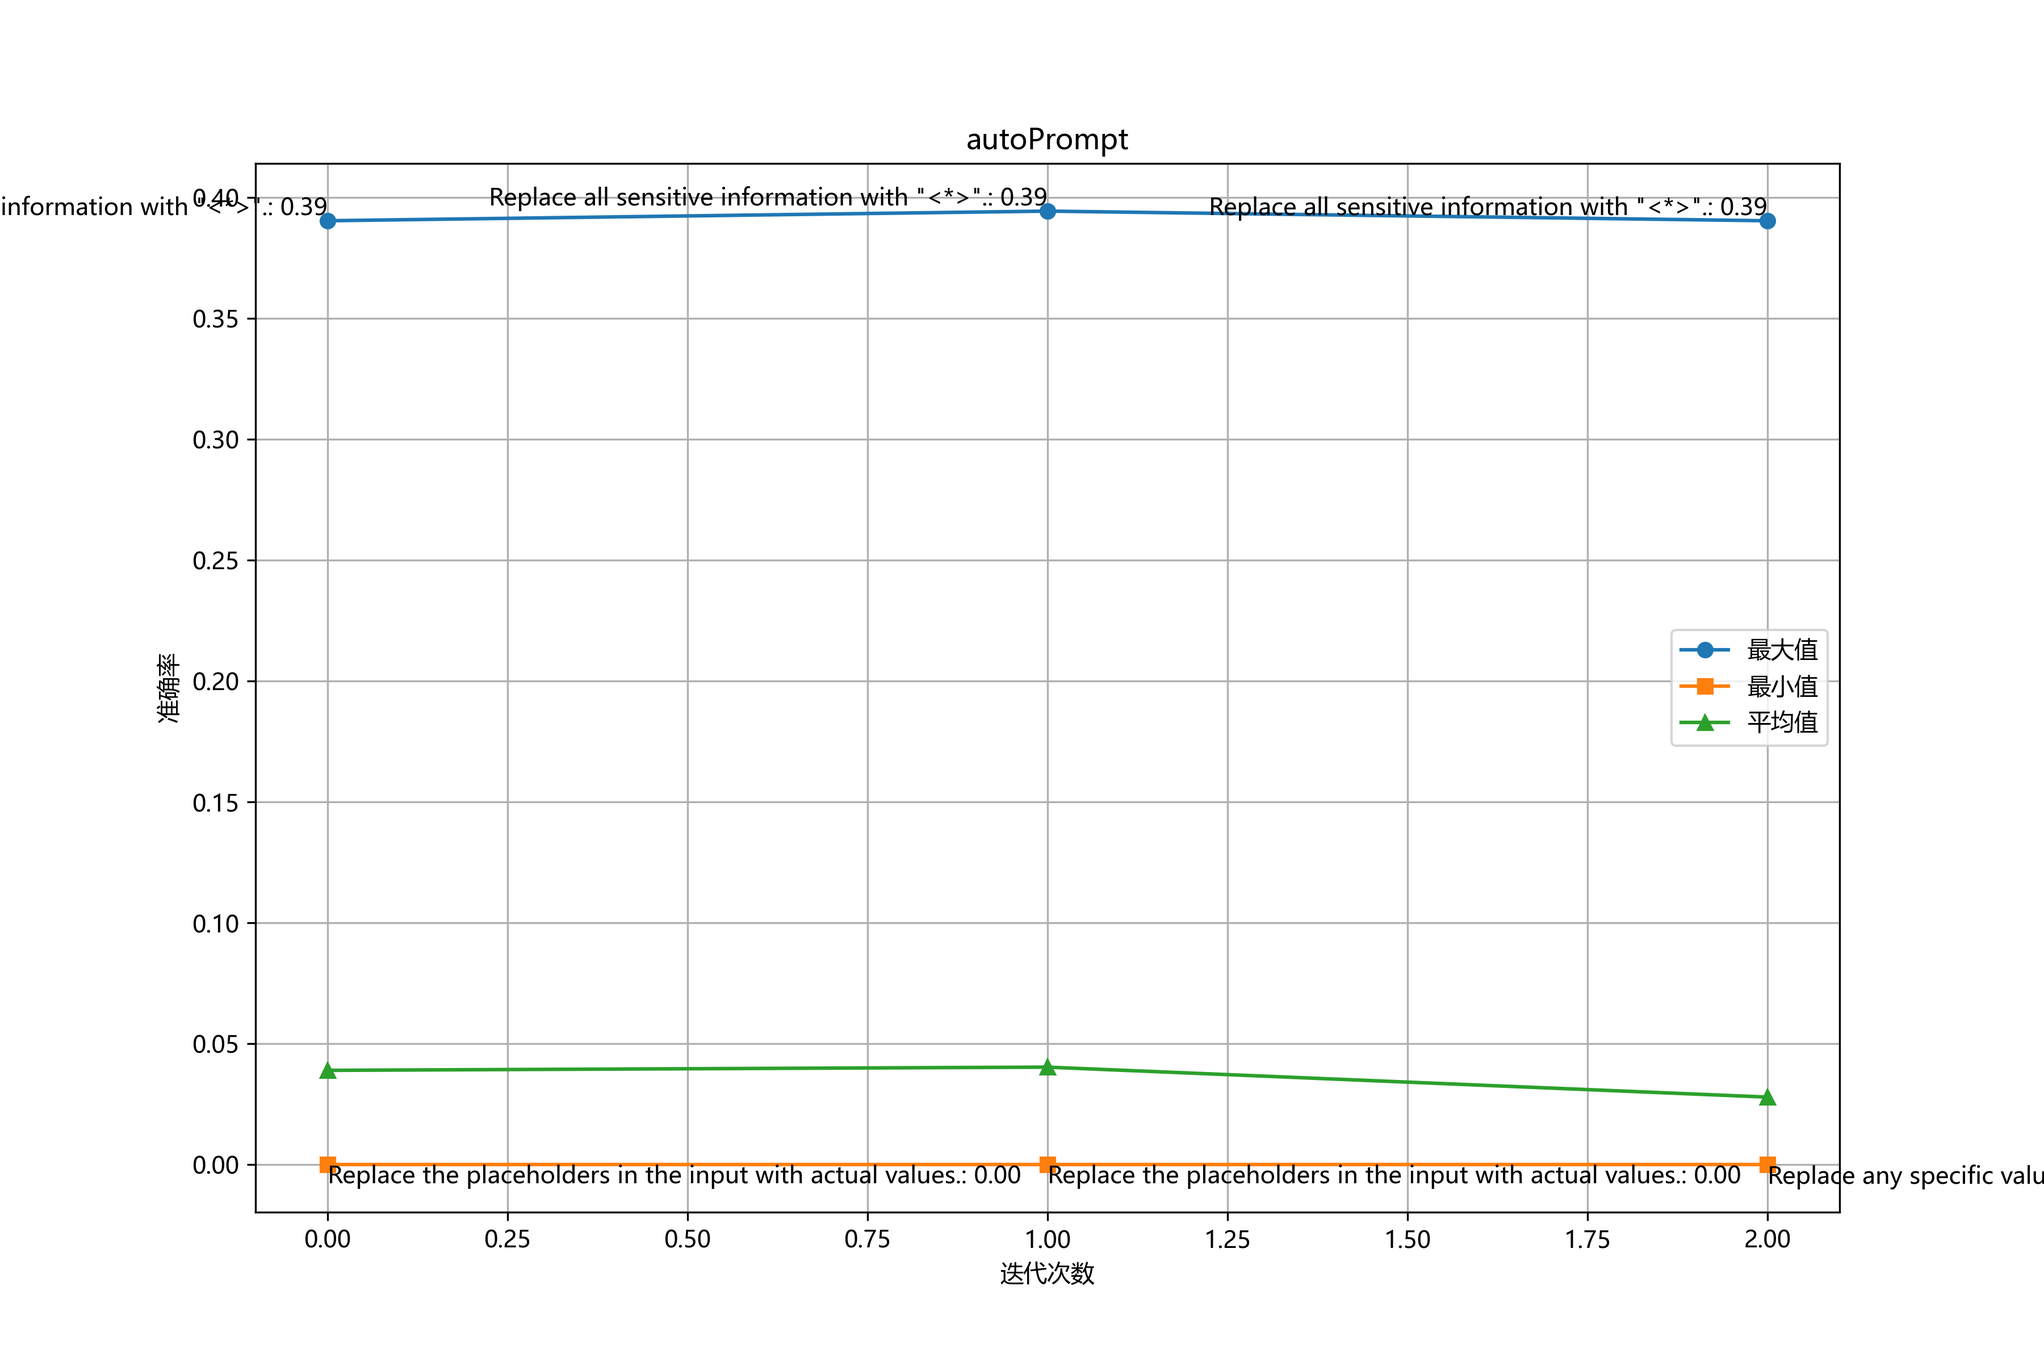
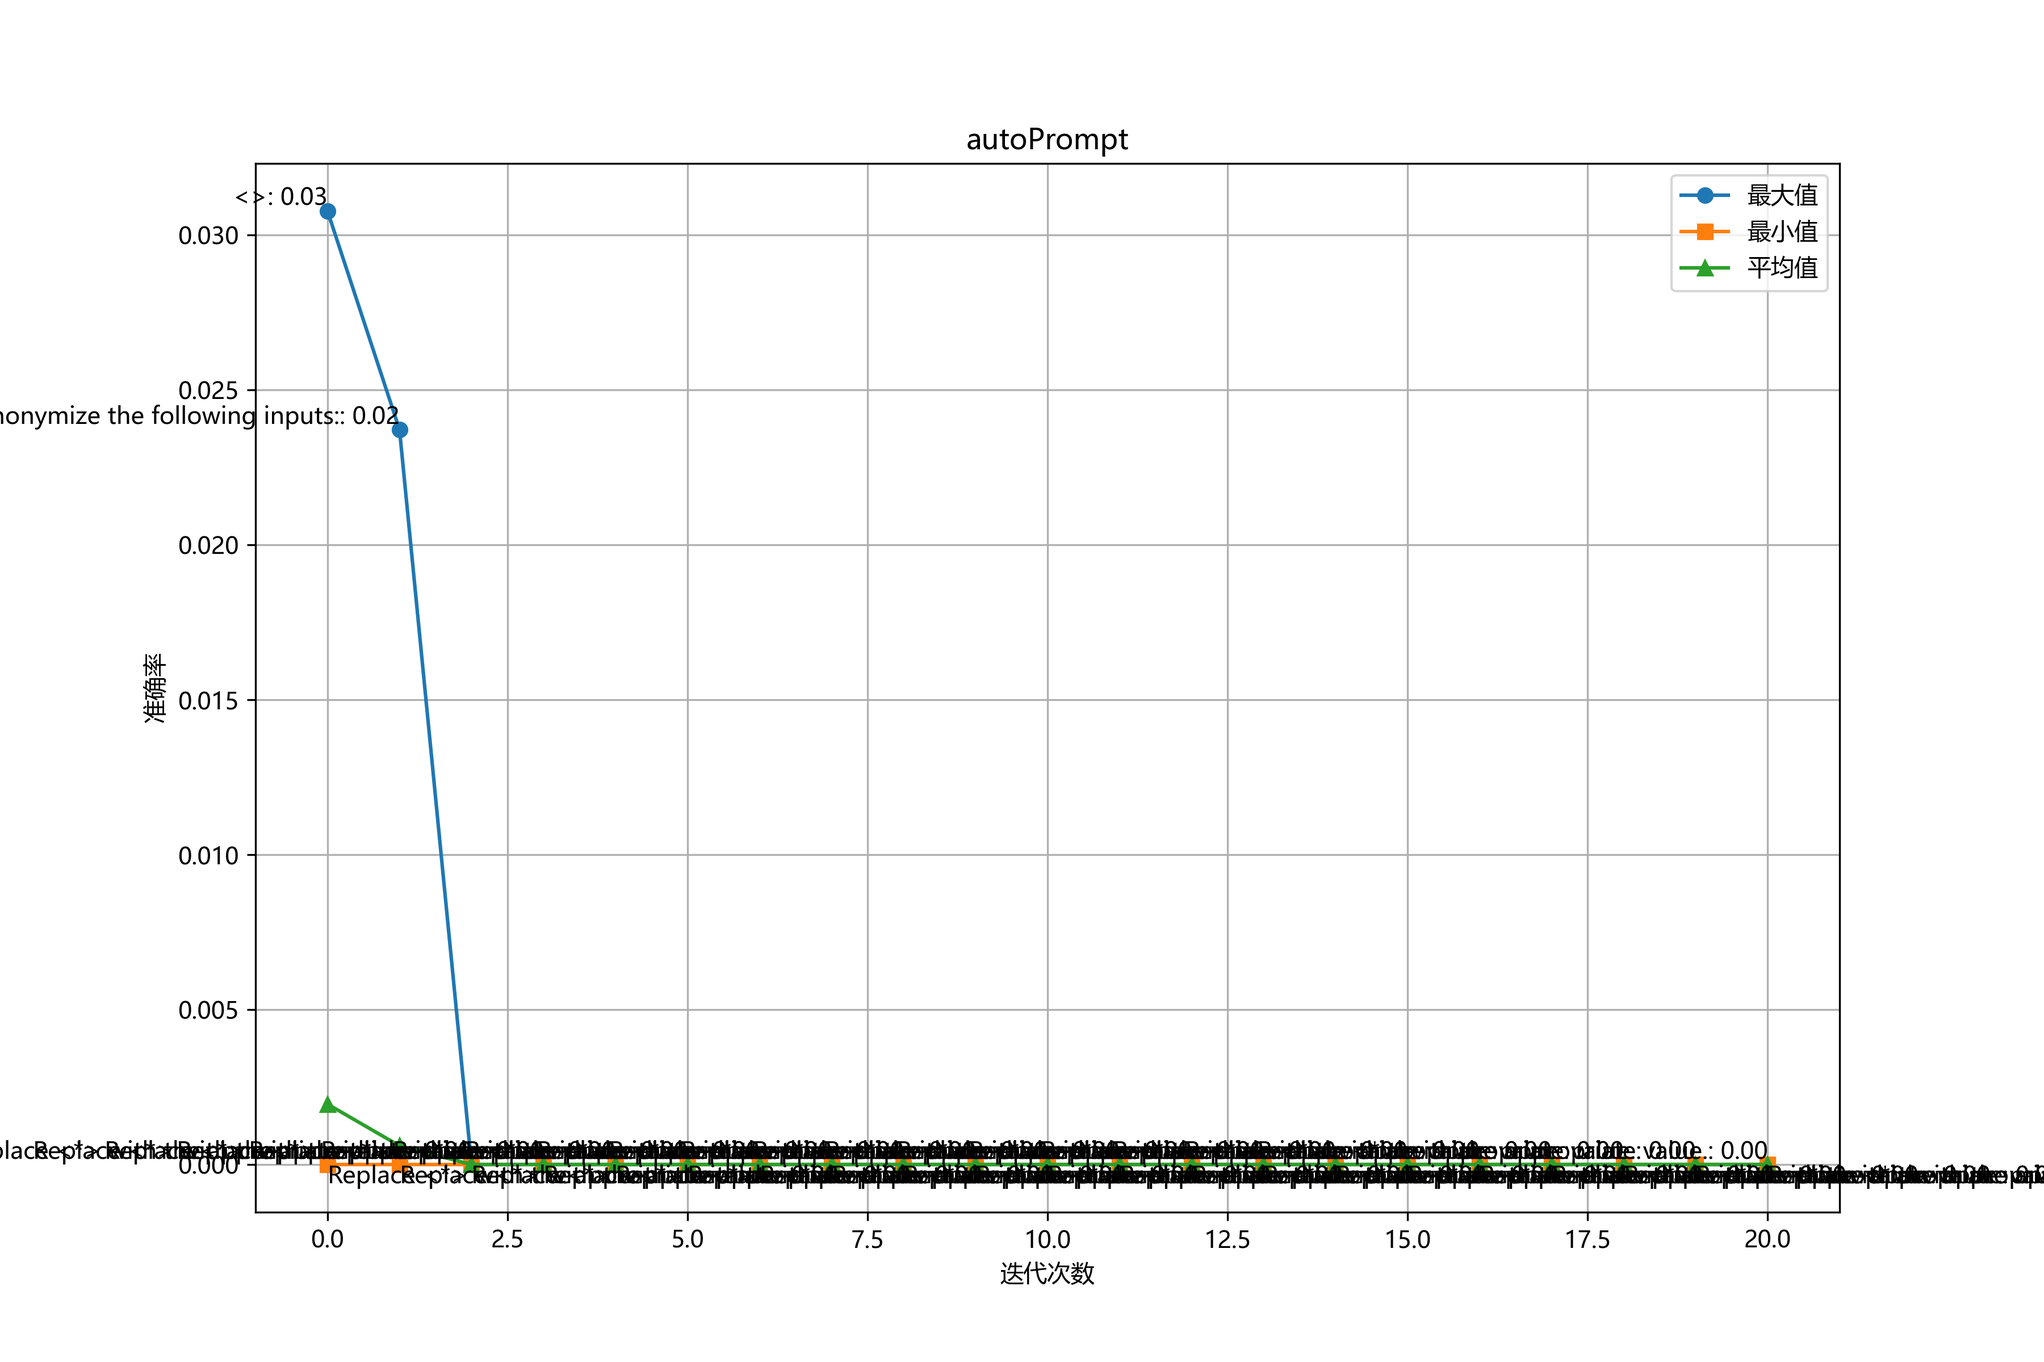
补丁

diff --git a/src/LogModule/AutoPrompt/Autoprompt.py b/src/LogModule/AutoPrompt/Autoprompt.py
@@ -3,10 +3,11 @@ import csv
 import random
 import time
 from src.LogModule.AutoPrompt.promptApi import infer_llm
-from src.LogModule.AutoPrompt.selectLog import select_log
+from src.LogModule.AutoPrompt.selectLog import get_train_log, get_test_log,get_random_log
 from src.LogModule.AutoPrompt.draw import draw_plot_with_keys
 from src.LogModule.AutoPrompt.wrongReason import batchProcess
 from src.LogModule.CasePrompt.promptSelect import prompt_select
+
 androidPath = r'C:\code\src\python\autoQAG\data\loghub-master\Android'
 
 ThreadNum = 10
@@ -28,8 +29,7 @@ def gerneration_prompt(input, output, number):
     prompt2 = "I instructed my friend to <>. " \
               "The friend read the instruction and wrote an output for every one of the inputs. " \
               f"Here are the input-outputpairs: \n{text}" \
-              f"Please output my instruction to the friend, only instruction, without any superfluous output" \
- \
+              f"Please output my instruction to the friend, only instruction, without any superfluous output"
         # 由gpt生成日志解析模版，输出模版放在提示词的中间
     prompt3 = "Professor Smith was given the following instruction:<>" \
               f"Here are the Professor's responses: \n{text} " \
@@ -39,27 +39,30 @@ def gerneration_prompt(input, output, number):
 
     for prompt in prompts:
         response = infer_llm(prompt, None, None)
+        print(response)
         gpt_prompts.append(response)
         print("gpt生成的提示词:", response)
 
 
 # 由gpt生成的提示词去抽取日志模版
 # 输入初始log内容，标准模版以及gpt生成的提示词
-def TaskExtractLog(log_content, prompt, log_template):
+def TaskExtractLog(log_content, prompt, log_template, isTrain):
     result_item = []
     prompt_temp = "You will be provided with a log message." \
                   f"log message:{log_content}," \
                   f"{prompt}" \
                   f"Output according to the above requirement, without any superfluous output" \
-                  f"Please follow the example below to extract the log template: \n"  \
-    #前5条
-    similiar_log = prompt_select(log_content, 5)
-    for item in similiar_log:
-        prompt_temp += f"Log message: `{item['Content']}`" \
-                       f"Log template: `{item['answer']}` \n"
+                  f"Please follow the example below to extract the log template: \n" \
+
+    # 前5条，测试集的话，这里的isTrain为False
+    if isTrain:
+        similiar_log = prompt_select(log_content, 5)
+        for item in similiar_log:
+            prompt_temp += f"Log message: `{item['Content']}`" \
+                           f"Log template: `{item['answer']}` \n"
 
     # print("目前的提示词："+prompt_temp)
-    response = infer_llm(prompt_temp, None, None, cached = True)
+    response = infer_llm(prompt_temp, None, None, cached=True)
     result_item.append(log_content)
     result_item.append(log_template)
     result_item.append(prompt)
@@ -67,7 +70,7 @@ def TaskExtractLog(log_content, prompt, log_template):
     return result_item
 
 
-def extract_log_template(log_contents, log_templates, prompts):
+def extract_log_template(log_contents, log_templates, prompts, isTrain=True):
     # 存储结果 初始log内容，该log的标准模版，gpt生成的提示词，gpt抽取的日志模版
     # result = []
     # for index, log_content in enumerate(log_contents):
@@ -90,7 +93,7 @@ def extract_log_template(log_contents, log_templates, prompts):
         futures = []
         for index, log_content in enumerate(log_contents):
             for prompt in prompts:
-                future = executor.submit(TaskExtractLog, log_content, prompt, log_templates[index])
+                future = executor.submit(TaskExtractLog, log_content, prompt, log_templates[index], isTrain)
                 futures.append(future)
         for future in concurrent.futures.as_completed(futures):
             try:
@@ -112,13 +115,13 @@ def judge_function(template: str, degen_template: str) -> bool:
         return False
 
 
-def prompt_accuracy_count(gpt_prompts, results, log_number):
+def prompt_accuracy_count(gpt_prompts, results):
     Accuracy = {gpt_prompt: 0 for gpt_prompt in gpt_prompts}
     for index, item in enumerate(results):
         if item[2] in gpt_prompts and judge_function(item[1], item[3]):
             Accuracy[item[2]] += 1
             # print(index)
-    Accuracy = {key: value / log_number for key, value in Accuracy.items()}
+    Accuracy = {key: value / len(results) for key, value in Accuracy.items()}
     return Accuracy
 
 
@@ -148,7 +151,7 @@ def generate_samantic_prompts(prompts, m, result):
     with concurrent.futures.ThreadPoolExecutor(max_workers=ThreadNum) as executor:
         # 对于每个提示，使用submit方法提交处理任务
         for prompt in prompts:
-            wrongReason = warp_wrongReason(result,prompt)
+            wrongReason = warp_wrongReason(result, prompt)
             future = executor.submit(TaskSamanticPrompts, prompt, m, wrongReason)
             futures.append(future)
         concurrent.futures.wait(futures)
@@ -159,14 +162,14 @@ def generate_samantic_prompts(prompts, m, result):
 
 
 def taskMakePrompt():
-    Input, Output, test_input, test_output = select_log(0, shotNum)
+    Input, Output = get_random_log(5)
     gerneration_prompt(Input, Output, 0)
 
 
 # 计算精度，主要需要是通过测试集来计算，仅仅对top5的提示词进行计算
 def calculate_accuracy(test_contents, test_templates, selected_k_prompt):
-    results = extract_log_template(test_contents, test_templates, selected_k_prompt)
-    accuracy_dict = prompt_accuracy_count(gpt_prompts, results, len(test_contents))
+    results = extract_log_template(test_contents, test_templates, selected_k_prompt,False)
+    accuracy_dict = prompt_accuracy_count(gpt_prompts, results)
     accuracy_asset.append(accuracy_dict)
 
 
@@ -181,14 +184,15 @@ def warp_wrongReason(results: list, prompt: str):
 if __name__ == '__main__':
 
     accuracy_asset = []
+    topK_prompts = []
+
+
     start_time = time.time()
     gpt_prompts = []  # 装gpt生成的模版
-    gpt_prompts_number = 6  # gpt生成的初始模版条数
-    shotNum = 5  # 一个gpt生成的提示词用log_number个log来检验效果
-    log_prompt_number = 5  # 喂给gpt产生提示词的log数量
+    gpt_prompts_number = 20  # gpt生成的初始模版条数
     k = 5  # 从gpt生成的提示词中挑选前k个提示词
     m = 2  # 挑选出来的前K个提示词坐同语义处理，每个提示词生成m个同语义的提示词
-    overall_number_of_cycles = 2  # 整体循环次数
+    overall_number_of_cycles = 20  # 整体循环次数
 
     # for i in range(gpt_prompts_number):
     #     Input, Output = random_select_log(log_prompt_number)
@@ -205,13 +209,13 @@ if __name__ == '__main__':
 
     # 第一轮次
 
-    train_contents, train_templates, test_contents, test_templates = select_log(0, shotNum)
+    train_contents, train_templates = get_train_log()
     # 由gpt生成的提示词来抽取模版
     results = extract_log_template(train_contents, train_templates, gpt_prompts)
 
     # 统计gpt生成的提示词的效果，由一个字典存储，{prompt: accuracy}
 
-    accuracy_dict = prompt_accuracy_count(gpt_prompts, results, shotNum)
+    accuracy_dict = prompt_accuracy_count(gpt_prompts, results)
     print("第1轮各个提示词的精度：", accuracy_dict)
     # 从gpt生成的提示词中挑选前k个提示词
     selected_k_prompt = select_prompt(accuracy_dict, k)
@@ -219,28 +223,34 @@ if __name__ == '__main__':
 
     # selected_k_prompt_temp = ['Remove sensitive information from the inputs.', 'Remove sensitive information and limit output.']
 
+    topK_prompts.append(selected_k_prompt)
+
     # 挑选出来的前K个提示词做同语义处理，每个提示词生成m个同语义的提示词
-    samantic_prompts = generate_samantic_prompts(selected_k_prompt, m,results)
+    samantic_prompts = generate_samantic_prompts(selected_k_prompt, m, results)
     print("第1轮保留的同语义的提示词:", samantic_prompts)
     print("第1轮保留的同语义的提示词长度:", len(samantic_prompts))
 
-    # 计算精度，主要需要是通过测试集来计算，对本轮次topk的提示词进行计算
+    test_contents, test_templates = get_test_log()
     calculate_accuracy(test_contents, test_templates, selected_k_prompt)
 
     # 在n-1论测试集合
     for i in range(overall_number_of_cycles):
-        # 随机抽取原始日志 用于测试-》验证集合
-        train_contents, train_templates, test_contents, test_templates = select_log(i + 1, shotNum)
+        train_contents, train_templates = get_train_log()
         # 由gpt生成的提示词去抽取日志模版
         results = extract_log_template(train_contents, train_templates, samantic_prompts)
         # 统计gpt生成的提示词的效果，由一个字典存储，{prompt: accuracy}
-        accuracy_dict = prompt_accuracy_count(samantic_prompts, results, shotNum)
+        accuracy_dict = prompt_accuracy_count(samantic_prompts, results)
         print(f"第{i + 2}轮各个提示词的精度：{accuracy_dict}")
         selected_k_prompt = select_prompt(accuracy_dict, k)
+
+        topK_prompts.append(selected_k_prompt)
+
         print(f"第{i + 2}轮挑选的提示词：", selected_k_prompt)
-        samantic_prompts = generate_samantic_prompts(selected_k_prompt, m,results)
+        samantic_prompts = generate_samantic_prompts(selected_k_prompt, m, results)
         print(f"第{i + 2}轮保留的同语义的提示词：", samantic_prompts)
         print(f"第{i + 2}轮保留的同语义的提示词长度：", len(samantic_prompts))
+
+        test_contents, test_templates = get_test_log()
         calculate_accuracy(test_contents, test_templates, selected_k_prompt)
 
     end_time = time.time()
@@ -250,4 +260,5 @@ if __name__ == '__main__':
     seconds = int(elapsed_time % 60)
 
     print(f"程序运行时间为: {minutes} 分钟 {seconds} 秒")
+    print("各轮次选取的提示词：", topK_prompts)
     draw_plot_with_keys(accuracy_asset)

diff --git a/src/LogModule/AutoPrompt/promptApi.py b/src/LogModule/AutoPrompt/promptApi.py
@@ -1,10 +1,12 @@
 import openai
 from src.config.redisKit import redisInit
 from src.config.configLoad import load_config
+
 openai.api_base, openai.api_key = load_config('OPENAI_API_BASE'), load_config('OPENAI_API_KEY')
 
-def infer_llm(instruction, exemplars, query,model='gpt-3.5-turbo-0125', temperature=0.0, max_tokens=2048,logger=None,cached=False):
 
+def infer_llm(instruction, exemplars, query, model='gpt-3.5-turbo-0125', temperature=0.0, max_tokens=2048, logger=None,
+              cached=False):
     messages = [
         # {"role": "system", "content": roleSystem},
         {"role": "user", "content": instruction},
@@ -21,7 +23,7 @@ def infer_llm(instruction, exemplars, query,model='gpt-3.5-turbo-0125', temperat
     client = redisInit()
 
     if cached:
-        response = client.get(messages)
+        response = client.get(instruction)
         if response is not None:
             return response
 
@@ -34,9 +36,10 @@ def infer_llm(instruction, exemplars, query,model='gpt-3.5-turbo-0125', temperat
                 temperature=temperature,
                 stream=False,
             )
-            res = [response["message"]["content"] for response in answers["choices"] if response['finish_reason'] != 'length'][0]
+            res = [response["message"]["content"] for response in answers["choices"] if
+                   response['finish_reason'] != 'length'][0]
             if cached:
-                client.set(messages, res)
+                client.set(instruction, res)
             return res
         except Exception as e:
             if logger is not None:
@@ -49,11 +52,34 @@ def infer_llm(instruction, exemplars, query,model='gpt-3.5-turbo-0125', temperat
     if exemplars is not None and len(exemplars) > 0:
         if exemplars[0]['query'] != 'Log message: `try to connected to host: 172.16.254.1, finished.`' \
                 or exemplars[0]['answer'] != 'Log template: `try to connected to host: {ip_address}, finished.`':
-            examples = [{'query': 'Log message: `try to connected to host: 172.16.254.1, finished.`',
-                         'answer': 'Log template: `try to connected to host: {ip_address}, finished.`'}]
-            return infer_llm(instruction,exemplars,query)
+            return infer_llm(instruction, exemplars, query,cached=cached)
         if logger is not None:
             logger.error(f"Failed to get response from OpenAI after {retry_times} retries.")
         else:
             print(f"Failed to get response from OpenAI after {retry_times} retries.")
     return "Failed to get response from OpenAI after {} retries.".format(retry_times)
+if __name__ == '__main__':
+    text = ""
+
+    # 由gpt生成日志解析模版，输出模版放在提示词的最后面
+    prompt1 = "I gave a friend an instruction and five inputs. " \
+              "The friend read the instruction and wrote an output for every one of the inputs. " \
+              f"Here are the input-outputpairs: \n{text}" \
+              f"Please output my instruction to the friend, only instruction, without any superfluous output"
+
+    # 由gpt生成日志解析模版，输出模版放在提示词的中间
+    prompt2 = "I instructed my friend to <>. " \
+              "The friend read the instruction and wrote an output for every one of the inputs. " \
+              f"Here are the input-outputpairs: \n{text}" \
+              f"Please output my instruction to the friend, only instruction, without any superfluous output"
+    # 由gpt生成日志解析模版，输出模版放在提示词的中间
+    prompt3 = "Professor Smith was given the following instruction:<>" \
+              f"Here are the Professor's responses: \n{text} " \
+              f"Please output the instruction, only instruction, without any superfluous output"
+
+    prompts = [prompt1, prompt2, prompt3]
+
+    for prompt in prompts:
+        response = infer_llm(prompt, None, None)
+        print(response)
+        print("gpt生成的提示词:", response)

diff --git a/src/LogModule/AutoPrompt/selectLog.py b/src/LogModule/AutoPrompt/selectLog.py
@@ -281,7 +281,7 @@ def selectLog(order, shotNum) -> (list, list, list, list):
     return queries, answers
 
 
-def candidateSample(shotNum,mode = "others") -> (list, list):
+def candidateSample(shotNum, mode="others") -> (list, list):
     # 当为sampled时，从sampledFile中读取数据，否则从structured中读取数据
     data_dir = "C:/code/src/python/autoQAG/data/loghub-master/Android"
 
@@ -318,11 +318,11 @@ def candidateSample(shotNum,mode = "others") -> (list, list):
     if mode == "sampled":
         sampled_data_outpath = f"{data_dir}/Android_2k.log_32sampled.csv"
         remaining_data_outpath = f"{data_dir}/Android_2k.log_remainingSampled.csv"
-        sampled_data.to_csv(sampled_data_outpath, index=False,encoding='utf-8')
-        remaining_data.to_csv(remaining_data_outpath, index=False,encoding='utf-8')
+        sampled_data.to_csv(sampled_data_outpath, index=False, encoding='utf-8')
+        remaining_data.to_csv(remaining_data_outpath, index=False, encoding='utf-8')
     else:
         outpath = f"{data_dir}/Android_2k.log_sampledFile.csv"
-        sampled_data.to_csv(outpath, index=False,encoding='utf-8')
+        sampled_data.to_csv(outpath, index=False, encoding='utf-8')
 
 
 def random_select_log(num, androidPath=r'C:\code\src\python\autoQAG\data\loghub-master\Android'):
@@ -392,7 +392,43 @@ def select_log(order, shotNum) -> (list, list, list, list):
     return queries, answers, remaining_queries, remaining_answers
 
 
+def get_train_log() -> (list, list):
+    data_dir = "C:/code/src/python/autoQAG/data/loghub-master/Android"
+    log_file = load_config("PARSE_SETTING")["Android"]["log_file"]
+    labelled_logs = pd.read_csv(f'{data_dir}/{log_file}_remainingSampled.csv')
+
+    content_list = labelled_logs['Content'].tolist()
+    template_list = labelled_logs['EventTemplate'].tolist()
+
+    # 返回两个列表
+    return content_list, template_list
+
+
+def get_test_log() -> (list, list):
+    data_dir = "C:/code/src/python/autoQAG/data/loghub-master/Android"
+    log_file = load_config("PARSE_SETTING")["Android"]["log_file"]
+    labelled_logs = pd.read_csv(f'{data_dir}/{log_file}_testData.csv')
+
+    content_list = labelled_logs['Content'].tolist()
+    template_list = labelled_logs['EventTemplate'].tolist()
+
+    # 返回两个列表
+    return content_list, template_list
+
+
+def get_random_log(num) -> (list, list):
+    data_dir = "C:/code/src/python/autoQAG/data/loghub-master/Android"
+    df = pd.read_csv(data_dir + r'\Android_2k.log_32sampled.csv', encoding='utf-8')
+    # 随机抽取num个行
+    indices = sorted(random.sample(range(len(df)), num))
+    df = df.iloc[indices]
+
+    content_list = df['Content'].tolist()
+    template_list = df['EventTemplate'].tolist()
+
+    return content_list, template_list
+
 if __name__ == '__main__':
     # candidateSample(512,'others')
     # random_select_log(200)
-    candidateSample(32,'sampled')
+    print(len(get_test_log()[0]))
